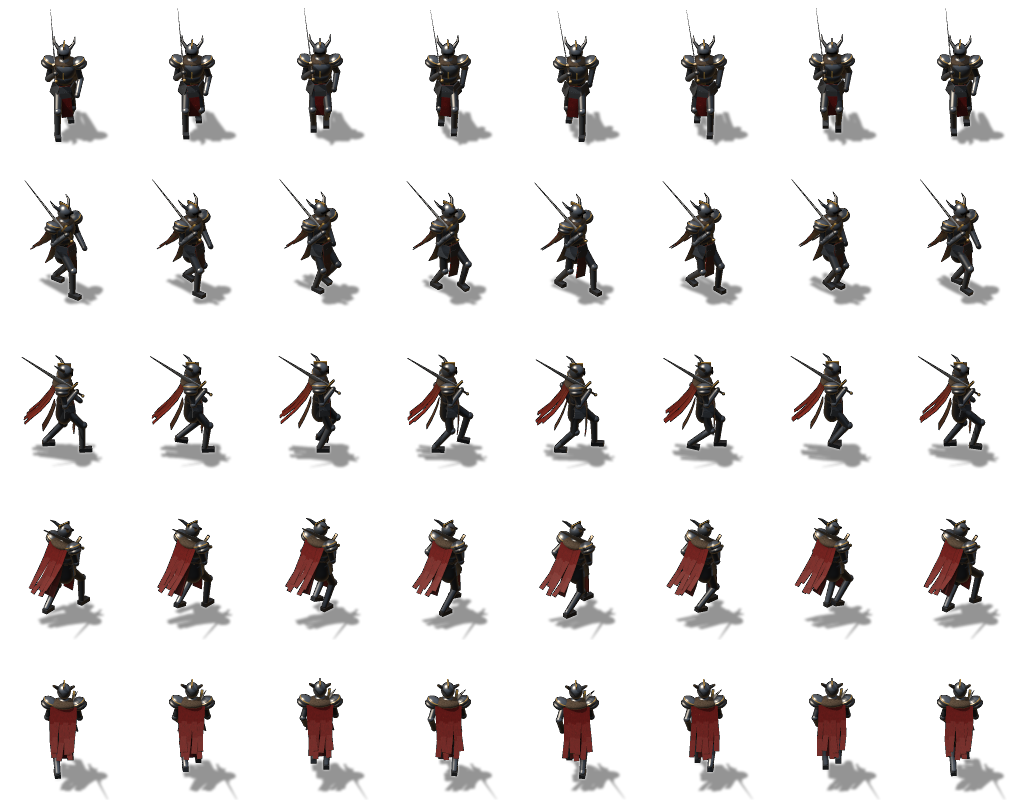
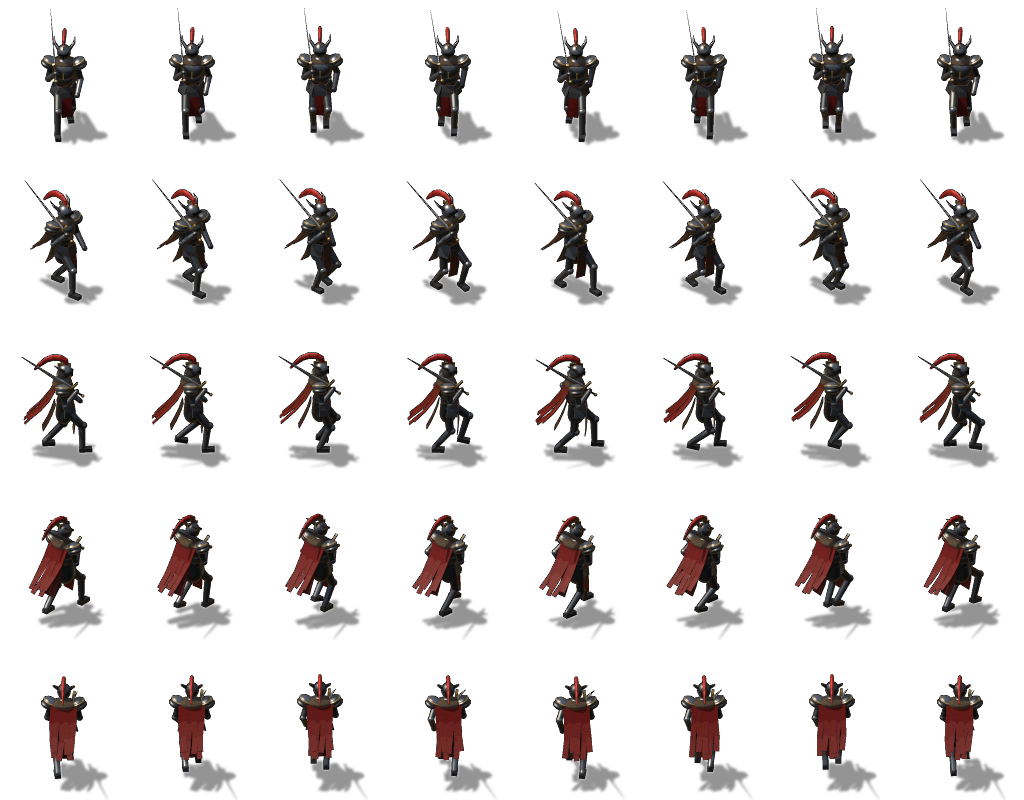
Give the warriors crusader great helms and the hero a plume
The man-at-arms wears a flat-topped, octagonal great helm with a
brass-edged T-visor over his mail coif instead of the kettle hat. The
hero's horned helm gets a crimson horsehair plume that trails as he moves.

Claude-Session: https://claude.ai/code/session_01BzusnAcqbPQvv4h24mGbRo

diff --git a/tools/gen_figures.py b/tools/gen_figures.py
@@ -14,10 +14,10 @@
 # data/base/configs/entity/figures.json names them.
 #
 # Figures (original designs, dark fantasy):
-#   hero             a knight in blackened plate, horned great helm, ragged
-#                    crimson cape and a greatsword
-#   human-warrior    a man-at-arms: mail, blue tabard, kettle hat, round
-#                    shield and arming sword
+#   hero             a knight in blackened plate, horned and plumed great
+#                    helm, ragged crimson cape and a greatsword
+#   human-warrior    a man-at-arms: mail, blue tabard, crusader great helm
+#                    with a T-visor, round shield and arming sword
 #   human-archer     a hooded longbowman in leather
 #   zombie-warrior   a gaunt dead soldier in rusted scraps, cold eyes
 #   skeleton-archer  bones in a tattered hood with a black bow, cold eyes
@@ -152,7 +152,7 @@ class Figure:
         return P
 
 # ------------------------------------------------------------------------------
-# Hero: blackened plate, horned great helm, crimson cape, greatsword
+# Hero: blackened plate, horned and plumed great helm, crimson cape, greatsword
 # ------------------------------------------------------------------------------
 
 class Hero(Figure):
@@ -169,6 +169,7 @@ class Hero(Figure):
     cloth2 = Mat("#3e0d0f", noise=0.4, nfreq=7, spec=0.05)
     leath  = Mat("#2b2119", noise=0.3, spec=0.1)
     fur    = Mat("#463c33", noise=0.7, nfreq=26, spec=0.0)
+    plume  = Mat("#8a1a1a", noise=0.75, nfreq=30, spec=0.1, power=10)
     blade  = Mat("#b4bcc6", metal=0.95, spec=1.1, power=90, noise=0.05)
     slit   = Mat("#040404", spec=0.0, rim=0.0, noise=0.0)
     eyes   = Mat("#000000", emissive=srgb("#ffb070") * 0.9, noise=0.0, rim=0.0)
@@ -258,6 +259,17 @@ class Hero(Figure):
         ball(P, J.head + Rh @ v(-0.035, 0.006, 0.128), 0.007, self.eyes)
         ball(P, J.head + Rh @ v( 0.035, 0.006, 0.128), 0.007, self.eyes)
         box(P, J.head + Rh @ v(0, 0.13, -0.01), Rh, (0.012, 0.03, 0.115), gd)
+        # Plume: crimson horsehair rising from the crest and falling back,
+        # trailing as he moves
+        drag = J.p["drag"] * 0.12
+        pts = [J.head + Rh @ v(0, 0.15, 0.03)]
+        for k, d in enumerate((v(0, 0.06, -0.02), v(0, 0.035, -0.06), v(0, 0.0, -0.075),
+                               v(0, -0.045, -0.065), v(0, -0.08, -0.04), v(0, -0.09, -0.02))):
+            pts.append(pts[-1] + Rh @ d * 1.25 + drag * (k / 5))
+        radii = (0.036, 0.052, 0.062, 0.062, 0.054, 0.042, 0.02)
+        for k, (a, b) in enumerate(zip(pts, pts[1:])):
+            seg(P, a, b, radii[k], radii[k + 1], self.plume, zhint=Rh @ v(1, 0, 0), fz=0.6)
+        ball(P, pts[0], 0.022, gd)
         for k in (-1, 1):
             a = J.head + Rh @ v(k * 0.1, 0.06, -0.02)
             b = a + Rh @ v(k * 0.07, 0.08, -0.06)
@@ -271,7 +283,7 @@ class Hero(Figure):
         return P
 
 # ------------------------------------------------------------------------------
-# Human warrior: mail, blue tabard, kettle hat, round shield, arming sword
+# Human warrior: mail, blue tabard, crusader helm, round shield, arming sword
 # ------------------------------------------------------------------------------
 
 def shield_face(q):
@@ -304,6 +316,8 @@ class HumanWarrior(Figure):
     wood   = Mat("#5a4027", noise=0.4)
     face   = Mat("#24406e", pattern=shield_face, noise=0.25, nfreq=6, spec=0.1)
     blade  = Mat("#a9b1ba", metal=0.95, spec=1.0, power=80, noise=0.06)
+    brass  = Mat("#9c8450", metal=0.85, spec=0.8, power=45, noise=0.12)
+    slit   = Mat("#050505", spec=0.0, rim=0.0, noise=0.0)
 
     def stance(self):
         return dict(hand_r=v(-0.25, -0.4, 0.14), wdir=v(0.05, 0.42, 0.9), wflat=v(1, 0, 0),
@@ -356,14 +370,22 @@ class HumanWarrior(Figure):
             sphere(P, sh + Rc @ v(k * 0.02, 0.02, 0), Rc @ rot_z(k * 0.4), (0.09, 0.07, 0.09), self.steel)
         for sd in "rl":
             arm(P, J, sd, self.mail, self.mail, self.leath, r=(0.053, 0.047, 0.046, 0.04), hand_r=0.043)
-        # Head: face, beard, mail coif, kettle hat
+        # Head: a crusader's great helm over a mail coif: flat topped, with a
+        # T-shaped visor (eye slit over a breathing slot) edged in brass
         Rh = J.Rh
         seg(P, J.neck, J.head, 0.05, 0.048, self.mail)
-        sphere(P, J.head, Rh, (0.097, 0.115, 0.107), self.skin)
-        sphere(P, J.head + Rh @ v(0, -0.06, 0.06), Rh, (0.07, 0.06, 0.05), self.beard)
-        sphere(P, J.head + Rh @ v(0, -0.03, -0.035), Rh, (0.115, 0.12, 0.11), self.mail)
-        sphere(P, J.head + Rh @ v(0, 0.055, 0), Rh, (0.118, 0.1, 0.118), self.steel)
-        sphere(P, J.head + Rh @ v(0, 0.052, 0), Rh @ rot_x(0.05), (0.175, 0.02, 0.175), self.steel)
+        sphere(P, J.head + Rh @ v(0, -0.08, -0.01), Rh, (0.13, 0.07, 0.12), self.mail)
+        # The barrel: an octagonal prism (four crossed slabs), flat on top
+        a = 0.114
+        for k in range(4):
+            box(P, J.head + Rh @ v(0, -0.015, 0), Rh @ rot_y(k * math.pi / 4) @ np.diag([1.0, 1.0, 1.0]),
+                (a, 0.1, a * 0.4142), self.steel)
+        box(P, J.head + Rh @ v(0, 0.075, 0.0), Rh, (0.004, 0.012, a * 1.02), self.brass)  # crown ridge
+        box(P, J.head + Rh @ v(0, 0.012, 0.104), Rh, (0.09, 0.013, 0.02), self.slit)
+        box(P, J.head + Rh @ v(0, -0.045, 0.104), Rh, (0.014, 0.055, 0.02), self.slit)
+        box(P, J.head + Rh @ v(0, 0.034, 0.112), Rh, (0.096, 0.007, 0.012), self.brass)
+        box(P, J.head + Rh @ v(-0.024, -0.045, 0.113), Rh, (0.006, 0.05, 0.012), self.brass)
+        box(P, J.head + Rh @ v( 0.024, -0.045, 0.113), Rh, (0.006, 0.05, 0.012), self.brass)
         # Sword and shield
         sword(P, J, 0.7, 0.036, self.blade, self.steel, self.leath, self.steel, guard_w=0.1, grip_len=0.1)
         shield(P, J, self.face, self.steel, self.steel, radius=0.26)
